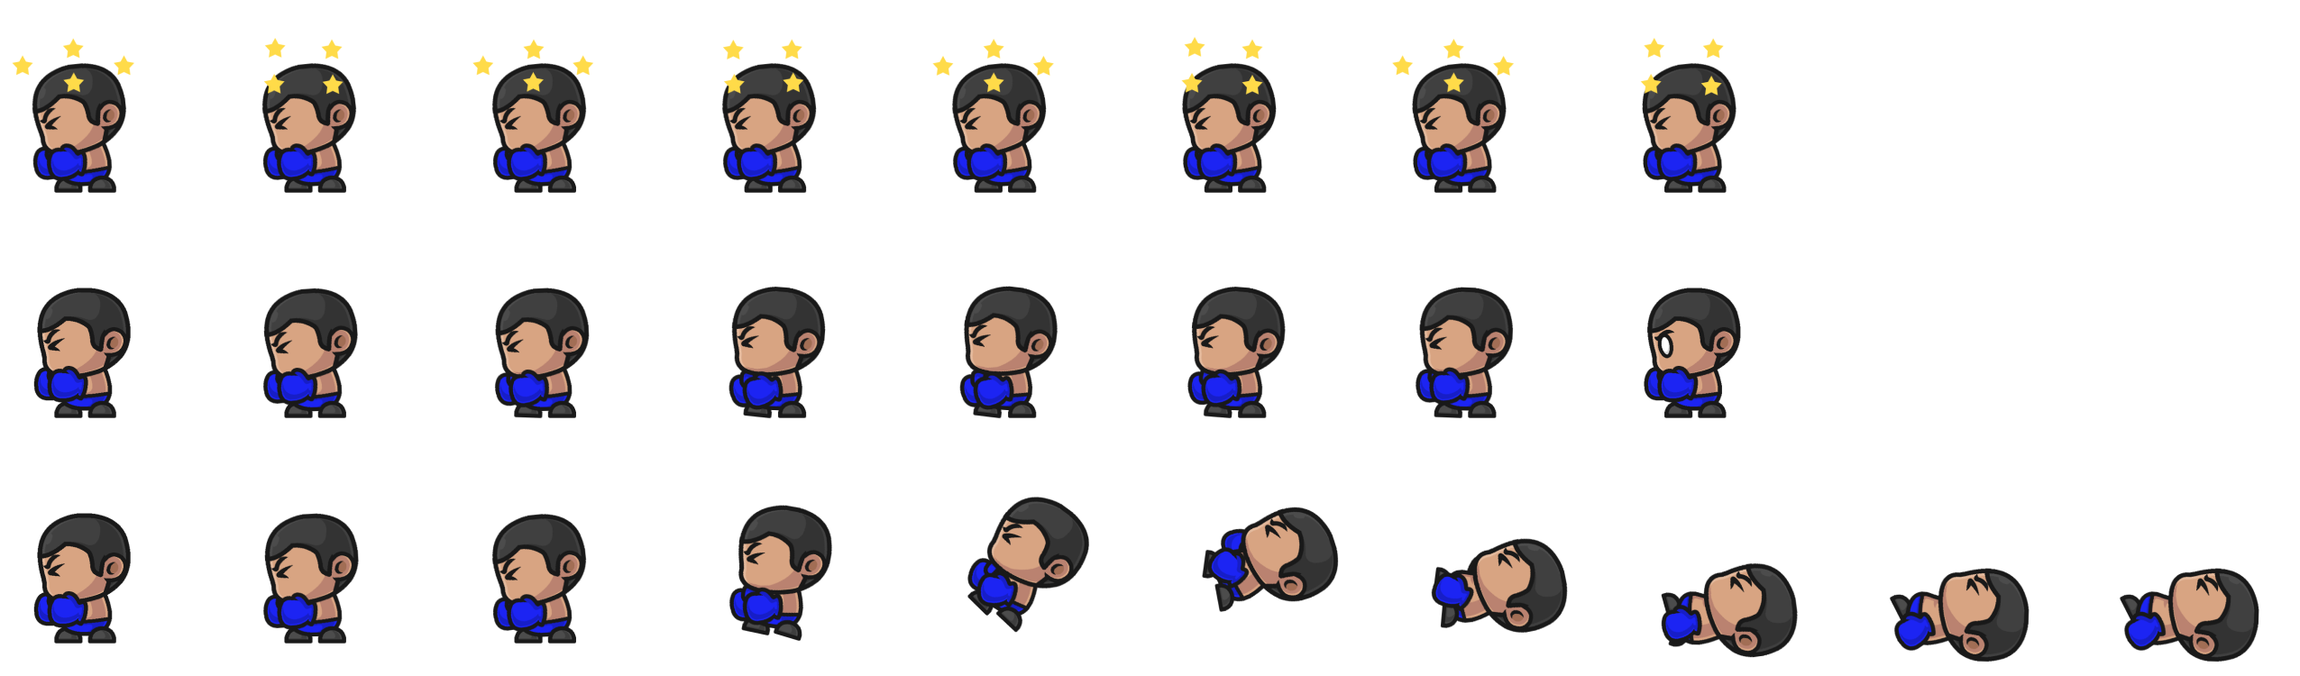
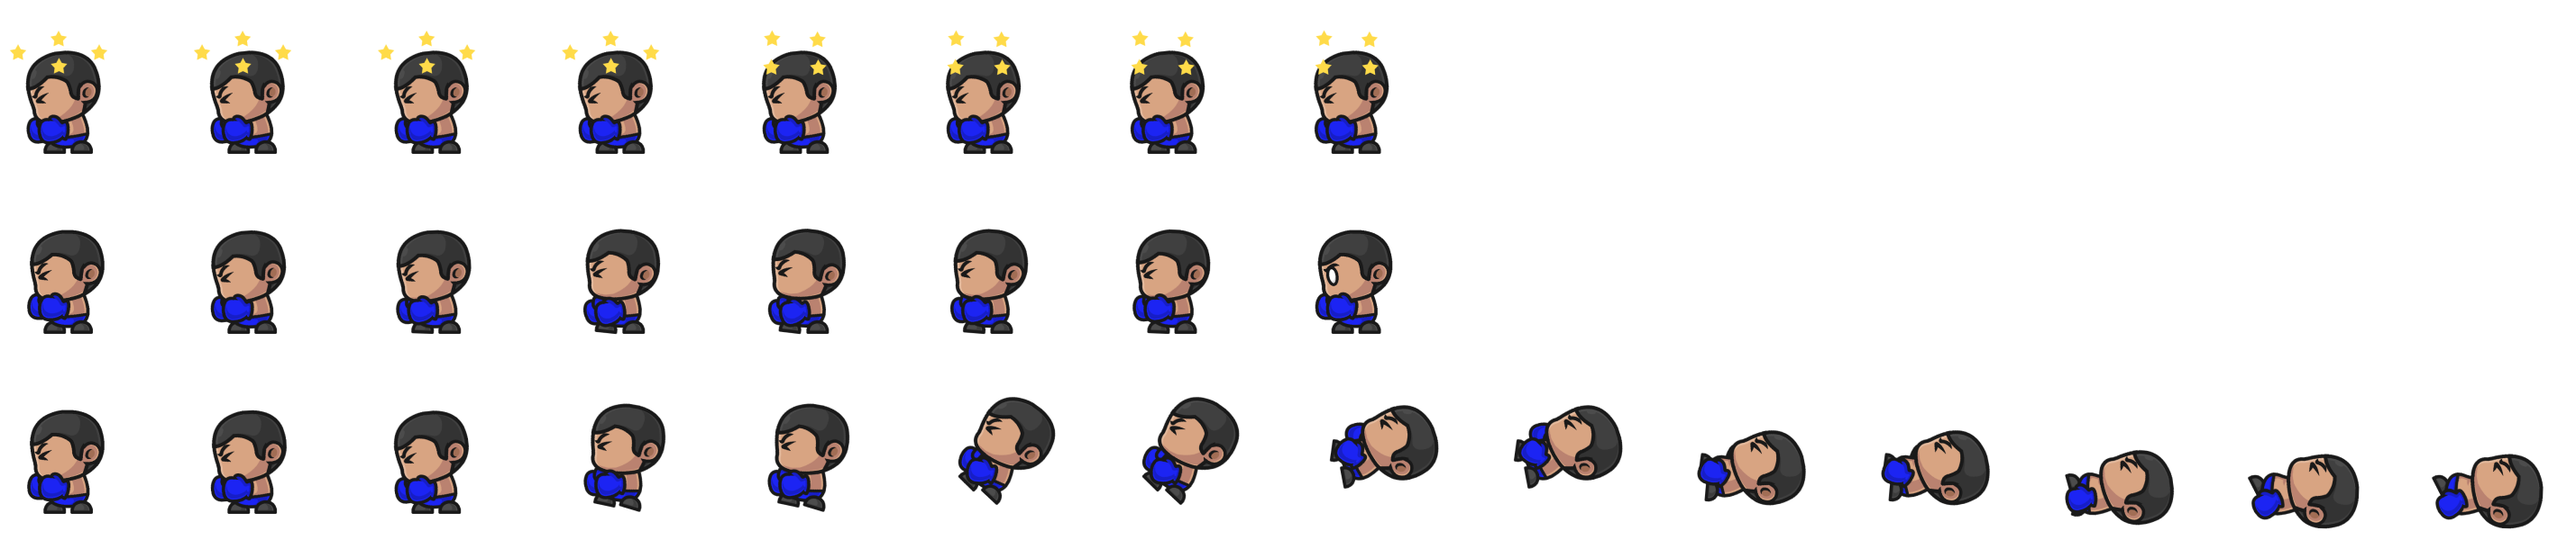
make fighter sprites smaller

diff --git a/src/js/fighter.js b/src/js/fighter.js
@@ -46,12 +46,12 @@ class Fighter {
 
     this.self = {
       size: {
-        width: 209.3,
-        height: 200,
+        width: 1674 / 10,
+        height: 160,
       },
       pos: {
-        x: 0,
-        y: 33,
+        x: 55,
+        y: 60,
       },
       frame: {
         x: 0,
@@ -84,12 +84,12 @@ class Fighter {
 
     this.opponent = {
       size: {
-        width: 255.1,
-        height: 250,
+        width: 2857 / 14,
+        height: 200,
       },
       pos: {
-        x: 150,
-        y: 0,
+        x: 175,
+        y: 33,
       },
       frame: {
         x: 0,
@@ -111,7 +111,7 @@ class Fighter {
         ko: () => {
           this.opponent.frame.y = 2;
           this.opponent.frame.min = 0;
-          this.opponent.frame.max = 9;
+          this.opponent.frame.max = 13;
         },
       },
       action: 'dizzy',
